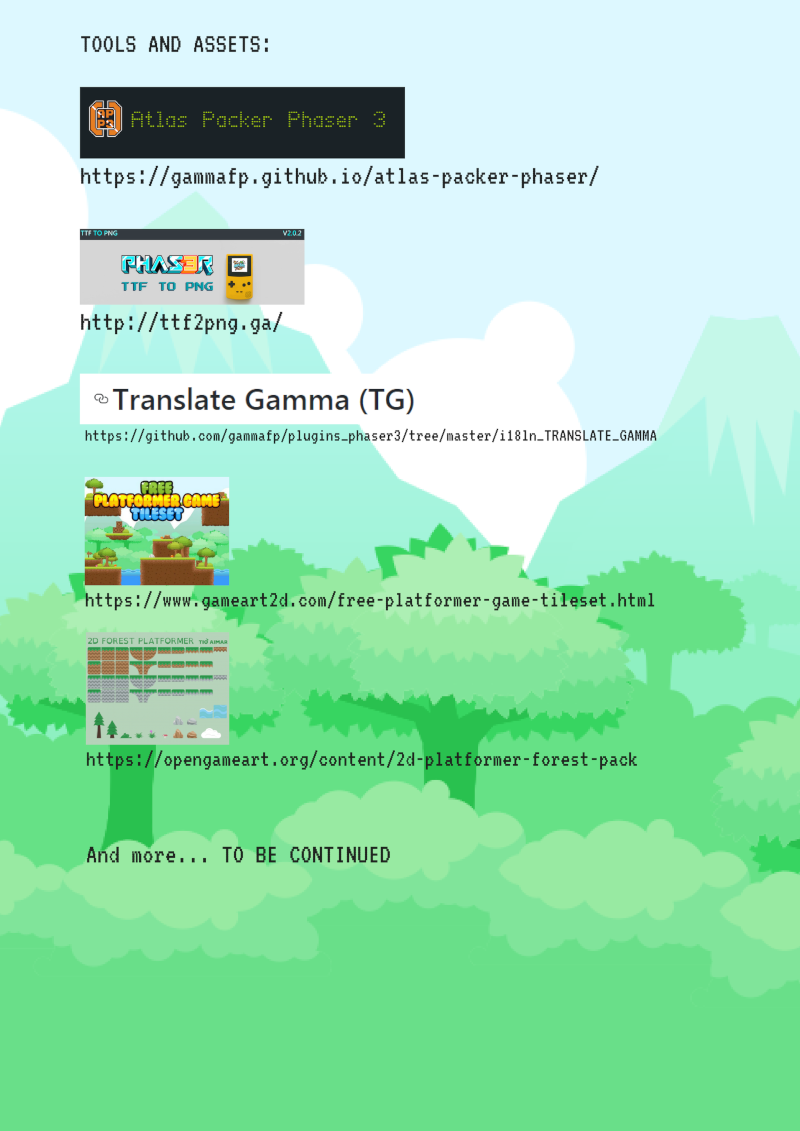
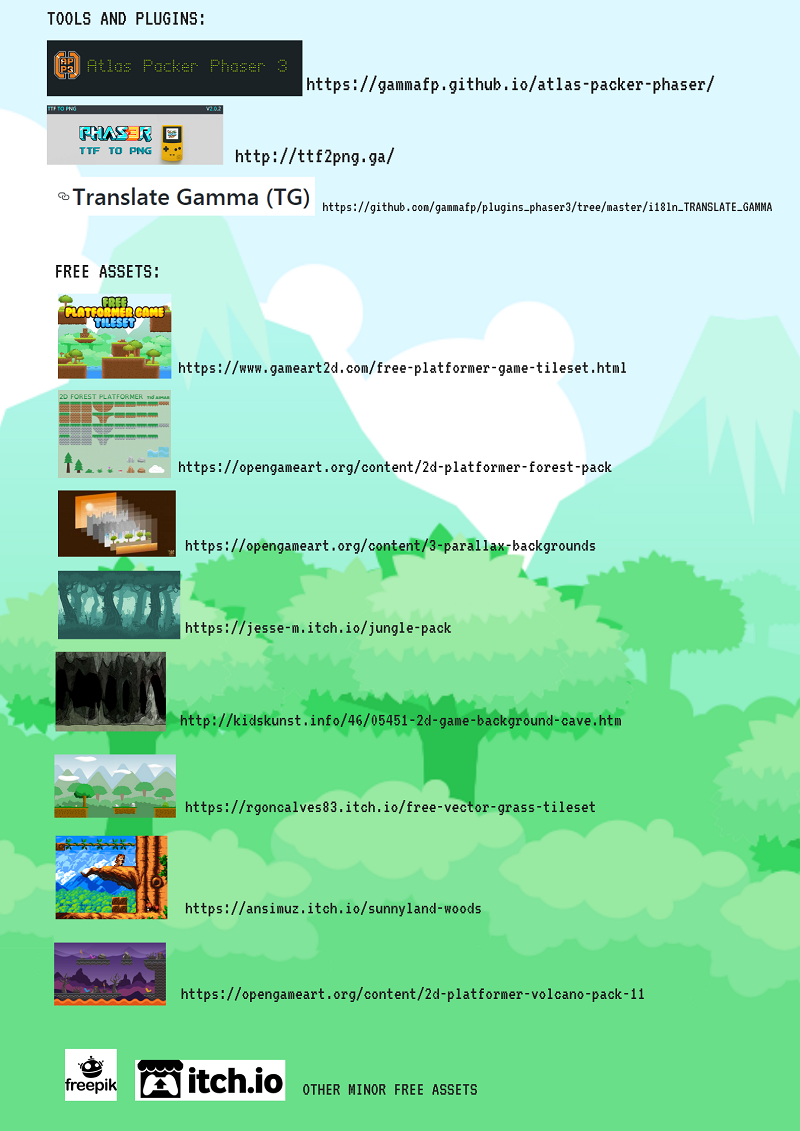
Credits Update

diff --git a/src/scenes/Credits.js b/src/scenes/Credits.js
@@ -21,7 +21,7 @@ class Credits extends BasicScene {
         const camera = this.cameras.main;        
         
         //  Set the bounds on the camera:
-        camera.setBounds(0, 0, camera.width , camera.height * 4.5);
+        camera.setBounds(0, 0, camera.width , camera.height * 4.70);
 
         const bounds = camera.getBounds();
 
@@ -52,7 +52,7 @@ class Credits extends BasicScene {
          });
 
          
-         const bgCredits=this.TG.getActualLang() + '_' +  GameConstants.Textures.BG_CREDITS;
+         const bgCredits= GameConstants.Textures.BG_CREDITS;
          
          this.bg1 = this.add.image(0, 0, bgCredits).setOrigin(0).setScale(1);    
          this.bg2 = this.add.image(0, this.bg1.height, GameConstants.Textures.BG_CREDITS_PAGE2).setOrigin(0).setScale(1);    

diff --git a/src/Bootloader.js b/src/Bootloader.js
@@ -115,8 +115,7 @@ class Bootloader extends Phaser.Scene {
         this.load.image('map_3', 'img/objects/map/map_3.png');
         
         //Credits
-        this.load.image('en_Credits', 'img/backgrounds/en_credits_800w.png');
-        this.load.image('es_Credits', 'img/backgrounds/es_credits_800w.png');
+        this.load.image('Credits', 'img/backgrounds/credits_800w.png');        
         this.load.image('creditsPage2', 'img/backgrounds/credits_page2.png');
 
         // Settings 
